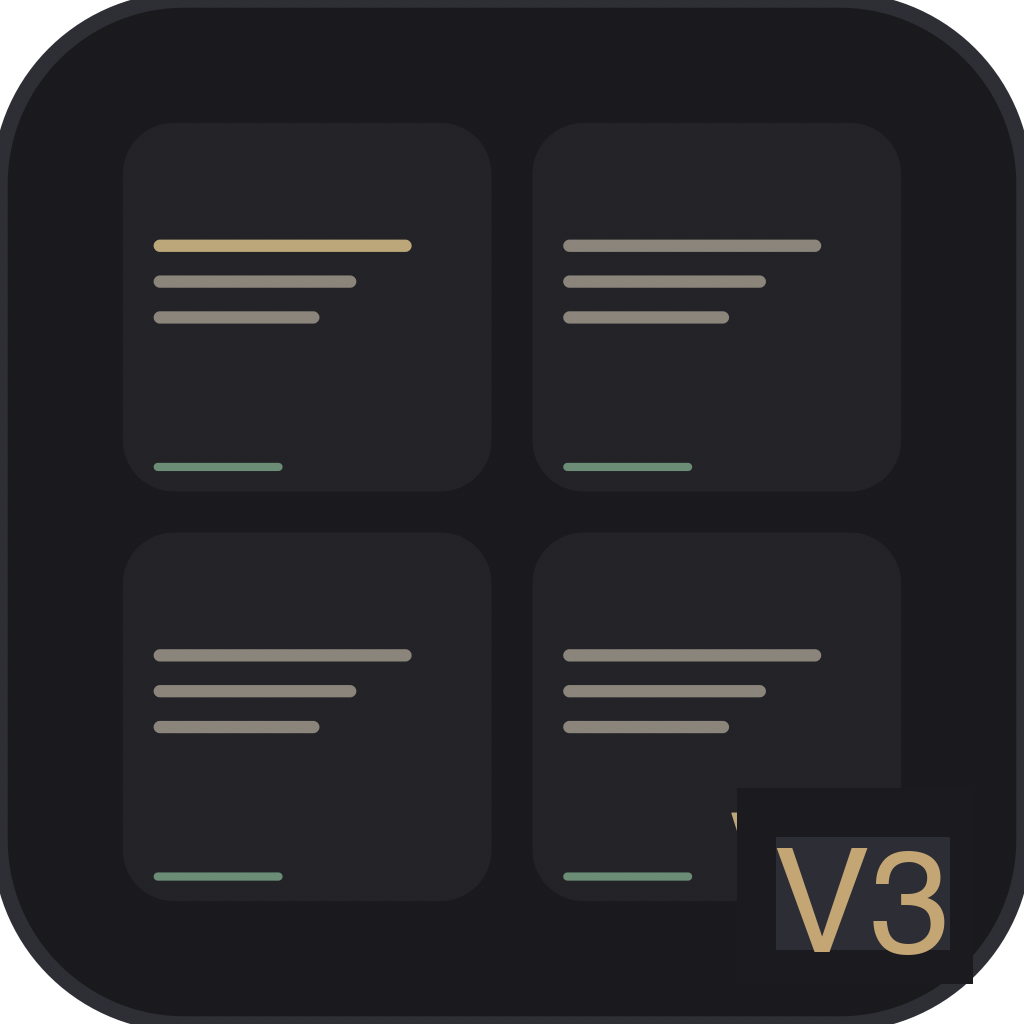
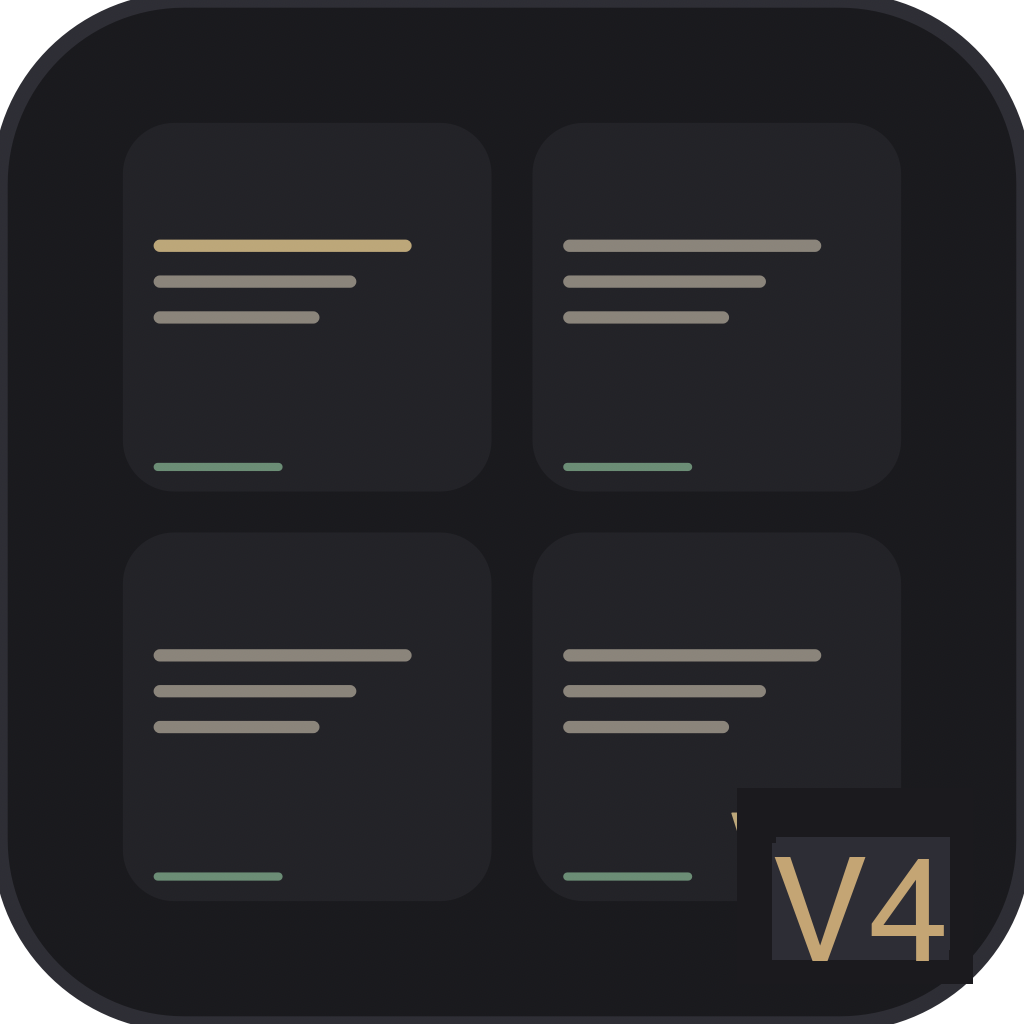
chore: fork V3 → V4, add new feature packs, update branding
V4 packs (new features):
- 020: Workspaces (tab-based workspace switching)
- 021: Skills Storage (snippet/prompt manager)
- 022: Pop Out Compose Box (floating compose overlay)
- 023: Auto-Populate Project Name (from folder picker)
- 024: Smart Agent Detection (branded agent indicators)

Carried forward from V3:
- 015: SSH Persistence
- 016: Runnable Notebooks
- 017: Inline Media Preview
- 018: External Secrets Integration

V3 completed packs archived to packs/archive/v3-completed/

Changed region(s): [[0.8125, 0.8125, 0.9375, 0.9375], [0.75, 0.8125, 0.8125, 0.9375]]

diff --git a/packs/020-workspaces.md b/packs/020-workspaces.md
@@ -1,0 +1,29 @@
+# Pack 020: Workspaces
+
+**Type:** Feature Spec
+**Priority:** High
+
+## Problem
+
+Users working on multiple projects need separate grid layouts with different terminal configurations. Currently there's only one workspace — switching between projects means manually reconfiguring cells.
+
+## Solution
+
+Add workspace tabs along the top toolbar bar. Each workspace has its own grid layout, cells, terminal sessions, and notes. Users can create, switch, rename, and close workspaces.
+
+### UI:
+- Workspace tabs in the toolbar (left side, before grid picker)
+- Each tab shows workspace name, click to switch
+- "+" button to create new workspace
+- Right-click tab for rename/close options
+- Active workspace highlighted with accent color
+
+### Data model:
+- `WorkspaceStore` manages multiple `Workspace` objects
+- Active workspace ID tracked
+- Each workspace independent: own cells, grid layout, sessions
+- Persisted to disk (one JSON per workspace, or array in workspace.json)
+
+### Session lifecycle:
+- Switching workspace: pause/background current sessions, activate target workspace sessions
+- Closing workspace: kill all sessions in that workspace, remove from storage

diff --git a/packs/021-skills-storage.md b/packs/021-skills-storage.md
@@ -1,0 +1,31 @@
+# Pack 021: Skills Storage
+
+**Type:** Feature Spec
+**Priority:** Medium
+**References:** King Conch Terminal, SkillDeck, Skills-Manager
+
+## Problem
+
+Users accumulate coding skills, snippets, and prompts across projects. No centralized way to store, browse, and inject them into terminals.
+
+## Solution
+
+A skills/snippet manager panel accessible from the toolbar or command palette. Store reusable code snippets, prompts, and commands that can be sent to any terminal with one click.
+
+### UI:
+- New toolbar button or command palette entry
+- Skills panel (sidebar or modal) with categorized list
+- Each skill: name, description, content (code/prompt), tags
+- Click to send content to focused terminal's compose box
+- Search/filter by name or tag
+
+### Storage:
+- `~/.termgrid/skills/` directory with JSON or YAML files
+- Or embedded in workspace data
+- Import/export support
+
+### References:
+- https://github.com/crossoverJie/SkillDeck
+- https://github.com/jiweiyeah/Skills-Manager
+- https://github.com/xingkongliang/skills-manager
+- https://github.com/amandeepmittal/skillsbar

diff --git a/packs/024-smart-agent-detection.md b/packs/024-smart-agent-detection.md
@@ -1,0 +1,29 @@
+# Pack 024: Smart Terminal Agent Detection
+
+**Type:** Feature Spec
+**Priority:** Medium
+**Reference:** King Conch Terminal
+
+## Problem
+
+TermGrid has hook-based agent detection (Claude Code, Codex) but no visual branding. Users can't see at a glance which agent is running in which terminal.
+
+## Solution
+
+Detect running agents and show branded indicators in the terminal header — logos, styled labels, and color accents per agent type.
+
+### Detection:
+- Existing hook system already identifies Claude Code and Codex via `AgentType` enum
+- Extend to detect agent from terminal output patterns (startup banners)
+- Add detection for: Claude Code, Codex, Gemini CLI, Aider, Cursor Agent
+
+### UI:
+- Agent logo/icon in the terminal label bar (small, left of the label)
+- Styled agent name badge: "CLAUDE", "CODEX", "GEMINI" etc.
+- Agent-specific accent colors on the label bar
+- Clear when agent exits
+
+### Assets:
+- Small monochrome icons per agent (8-12px)
+- Color palette per agent matching their branding
+- See King Conch Terminal for reference implementation

diff --git a/packs/022-popout-compose.md b/packs/022-popout-compose.md
@@ -1,0 +1,24 @@
+# Pack 022: Pop Out Compose Box
+
+**Type:** Feature Spec
+**Priority:** Medium
+
+## Problem
+
+The compose box at the bottom of each terminal is small and collapses. For long prompts or multi-line commands, users need more space. When collapsed, there's no way to compose without expanding it first.
+
+## Solution
+
+Add a "pop out" option to the compose box that opens it as a floating overlay in front of that terminal. Works even when the compose box is collapsed.
+
+### UI:
+- Small pop-out icon on the compose bar (next to the collapse chevron)
+- Click opens a larger floating text editor overlaying the terminal
+- Same send behavior (Shift+Enter = send)
+- Escape or click outside to dismiss
+- Sent text goes to the same terminal session
+
+### Sizing:
+- Floating compose: ~80% of cell width, ~150px tall
+- Centered vertically on the cell
+- Rounded corners, shadow, themed background

diff --git a/packs/023-auto-project-name.md b/packs/023-auto-project-name.md
@@ -1,0 +1,18 @@
+# Pack 023: Auto-Populate Project Name
+
+**Type:** Feature Spec
+**Priority:** Low (quick win)
+
+## Problem
+
+When users set a working directory via the folder picker, the cell label stays empty or whatever was manually typed. Users have to type the project name separately.
+
+## Solution
+
+When a folder path is selected via the directory picker button, auto-populate the cell label with the folder name (last path component) using correct capitalization from the filesystem.
+
+### Implementation:
+- In `pickWorkingDirectory()` and `pickExplorerDirectory()` in CellView
+- After setting the directory, if cell label is empty, set it to `url.lastPathComponent`
+- Only auto-fill if label is currently empty (don't overwrite user-typed labels)
+- Use the actual folder name from the filesystem (preserves capitalization)
